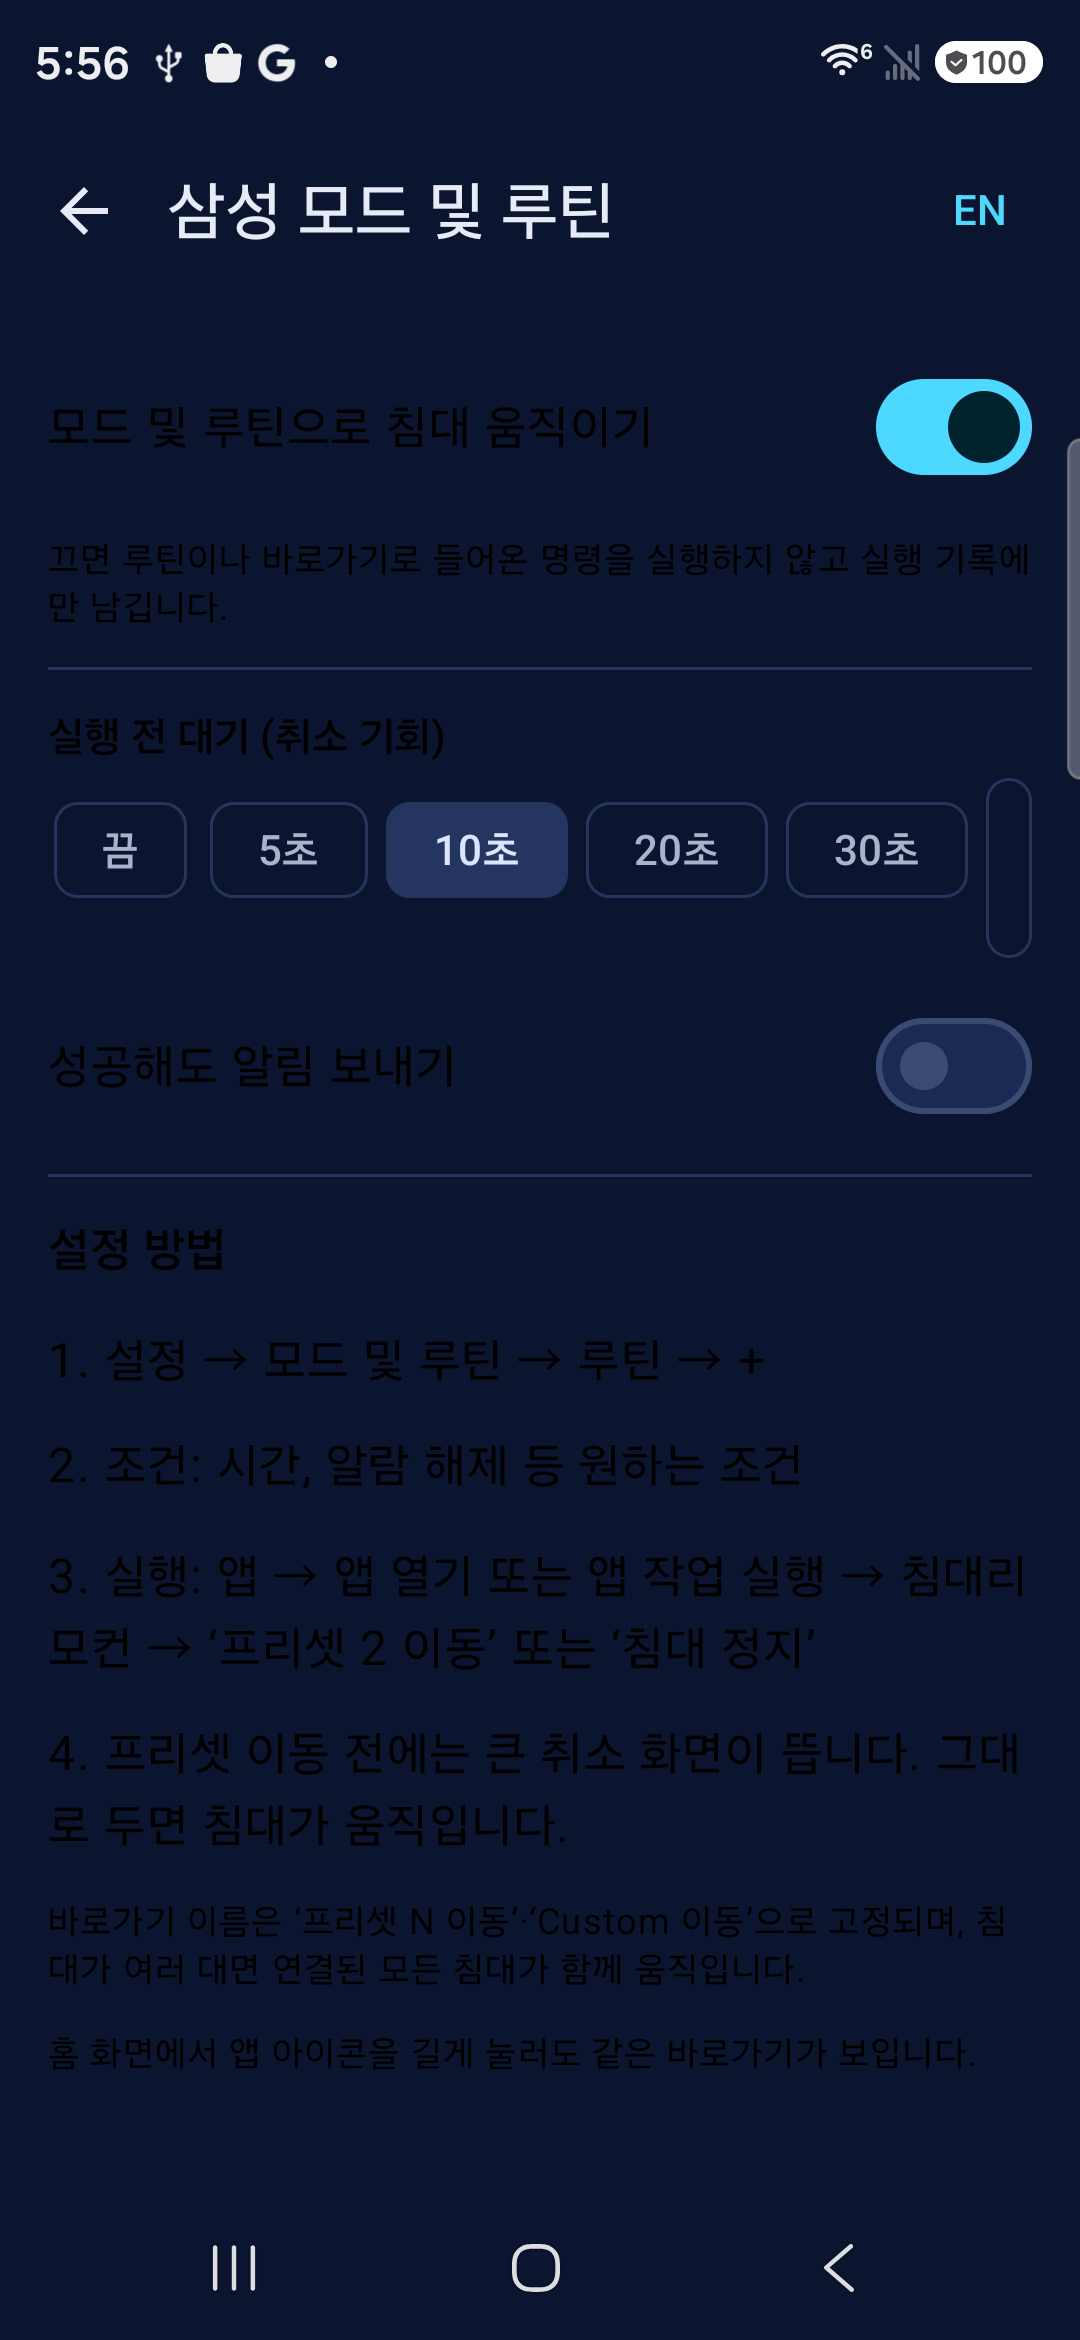
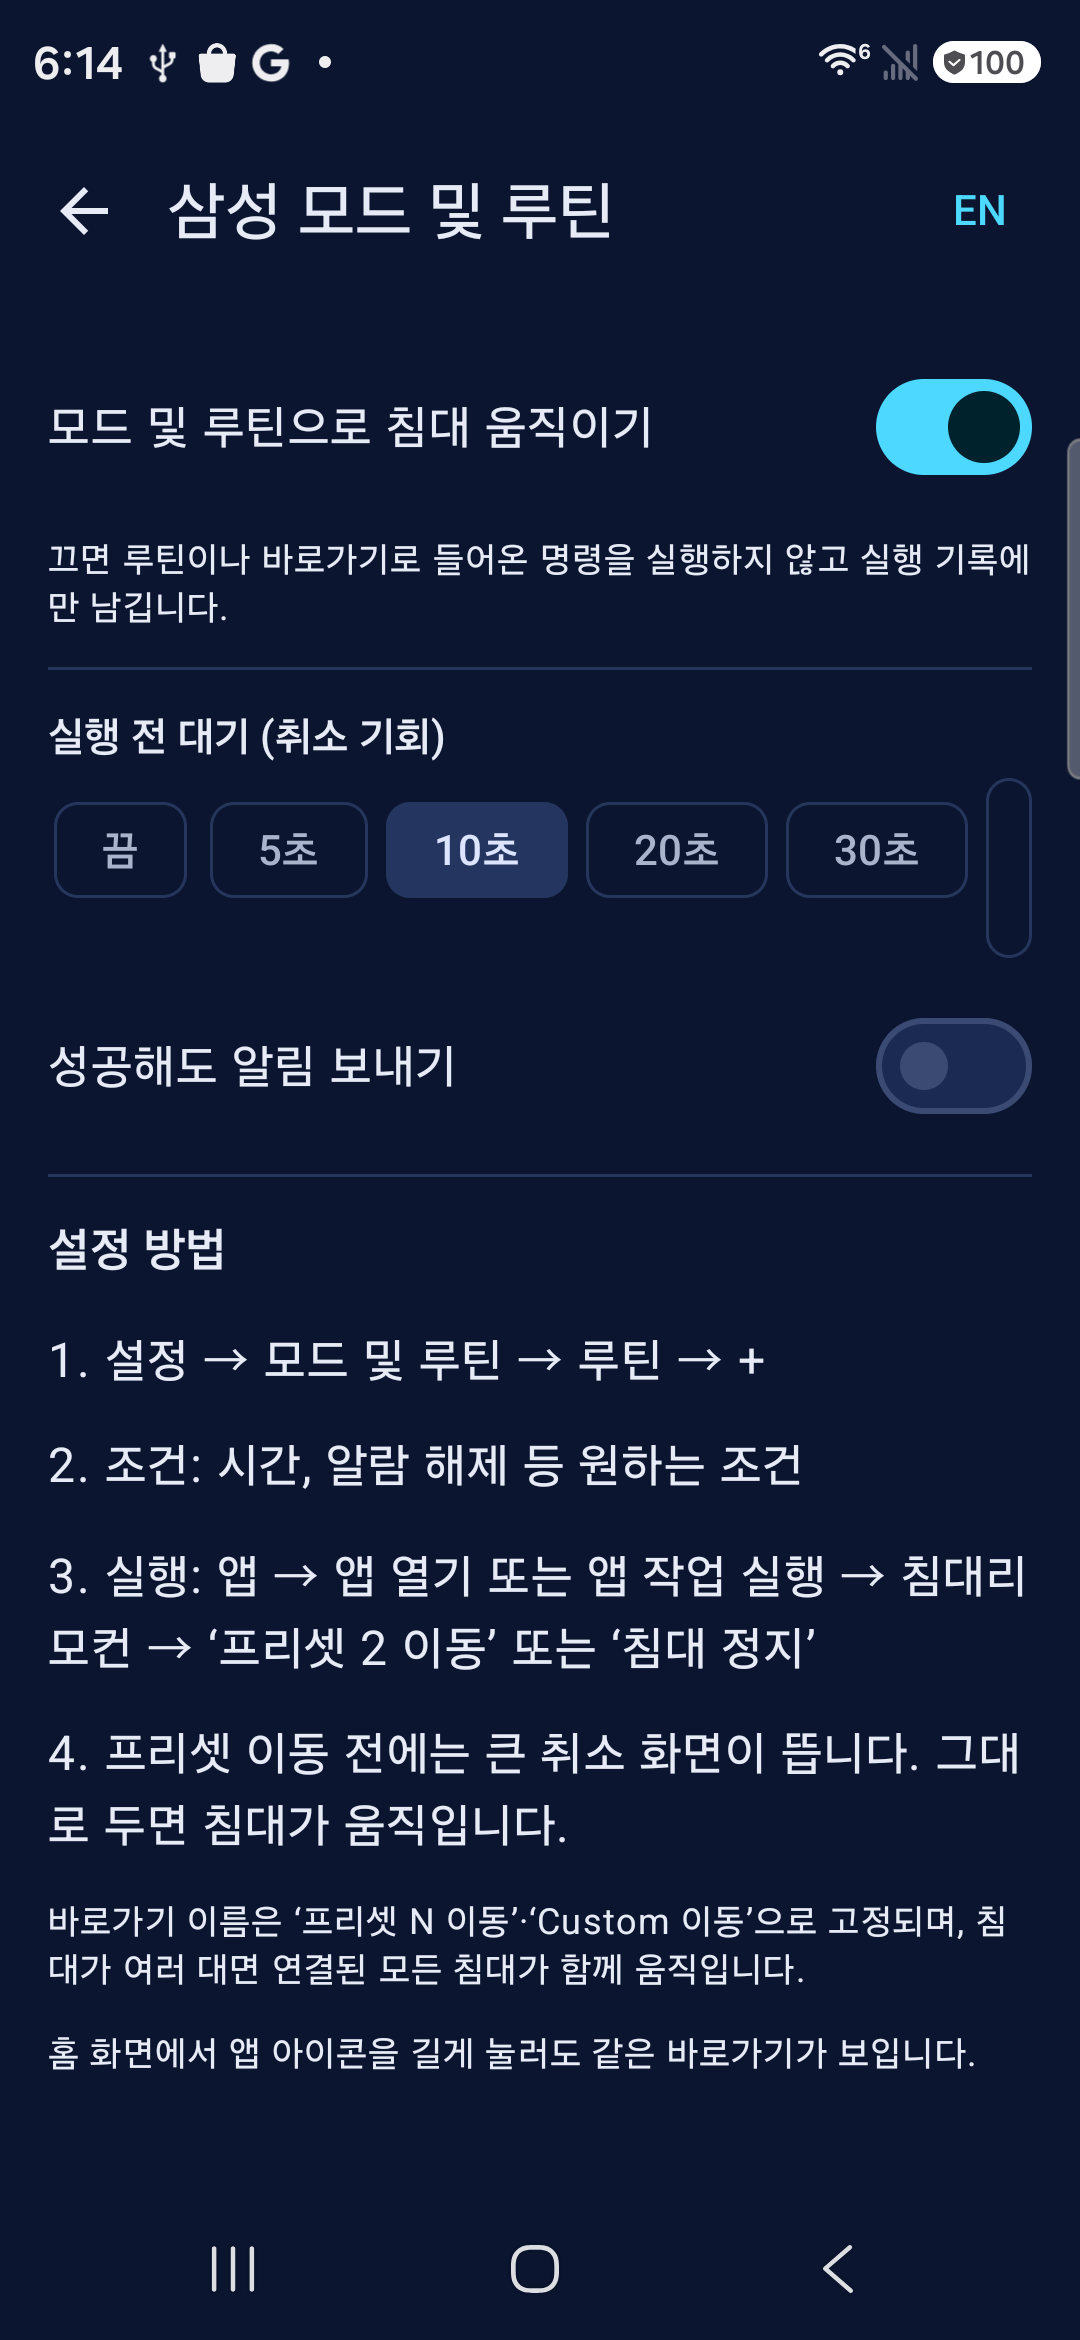
Fix black text on navy in screens without a Scaffold
The splash change made the window background navy; screens without a
Scaffold (about, Modes and Routines) fell back to Compose's default black
content color. Wrap the app root in a themed Surface so every screen gets
the dark theme's background and onBackground text. Retake the routines
store screenshot.

diff --git a/app/src/main/kotlin/dev/linakbed/app/MainActivity.kt b/app/src/main/kotlin/dev/linakbed/app/MainActivity.kt
@@ -10,6 +10,10 @@ import androidx.activity.SystemBarStyle
 import androidx.activity.compose.setContent
 import androidx.activity.enableEdgeToEdge
 import androidx.activity.viewModels
+import androidx.compose.foundation.layout.fillMaxSize
+import androidx.compose.material3.MaterialTheme
+import androidx.compose.material3.Surface
+import androidx.compose.ui.Modifier
 import dagger.hilt.android.AndroidEntryPoint
 import dev.linakbed.app.navigation.AppRoot
 import dev.linakbed.app.navigation.RootState
@@ -30,7 +34,11 @@ class MainActivity : ComponentActivity() {
         )
         setContent {
             LinakBedTheme {
-                AppRoot(rootViewModel)
+                // 모든 화면에 테마 배경·글자색을 깐다: Scaffold 없는 화면(정보, 모드 및 루틴 등)도
+                // 기본 검은 글자색 대신 onBackground를 받는다 (창 배경은 스플래시용 네이비)
+                Surface(Modifier.fillMaxSize(), color = MaterialTheme.colorScheme.background) {
+                    AppRoot(rootViewModel)
+                }
             }
         }
         // 언어 전환 등으로 다시 만들어질 땐(savedInstanceState 있음) 시스템 스플래시가 없으니 최소 시간도 두지 않는다
